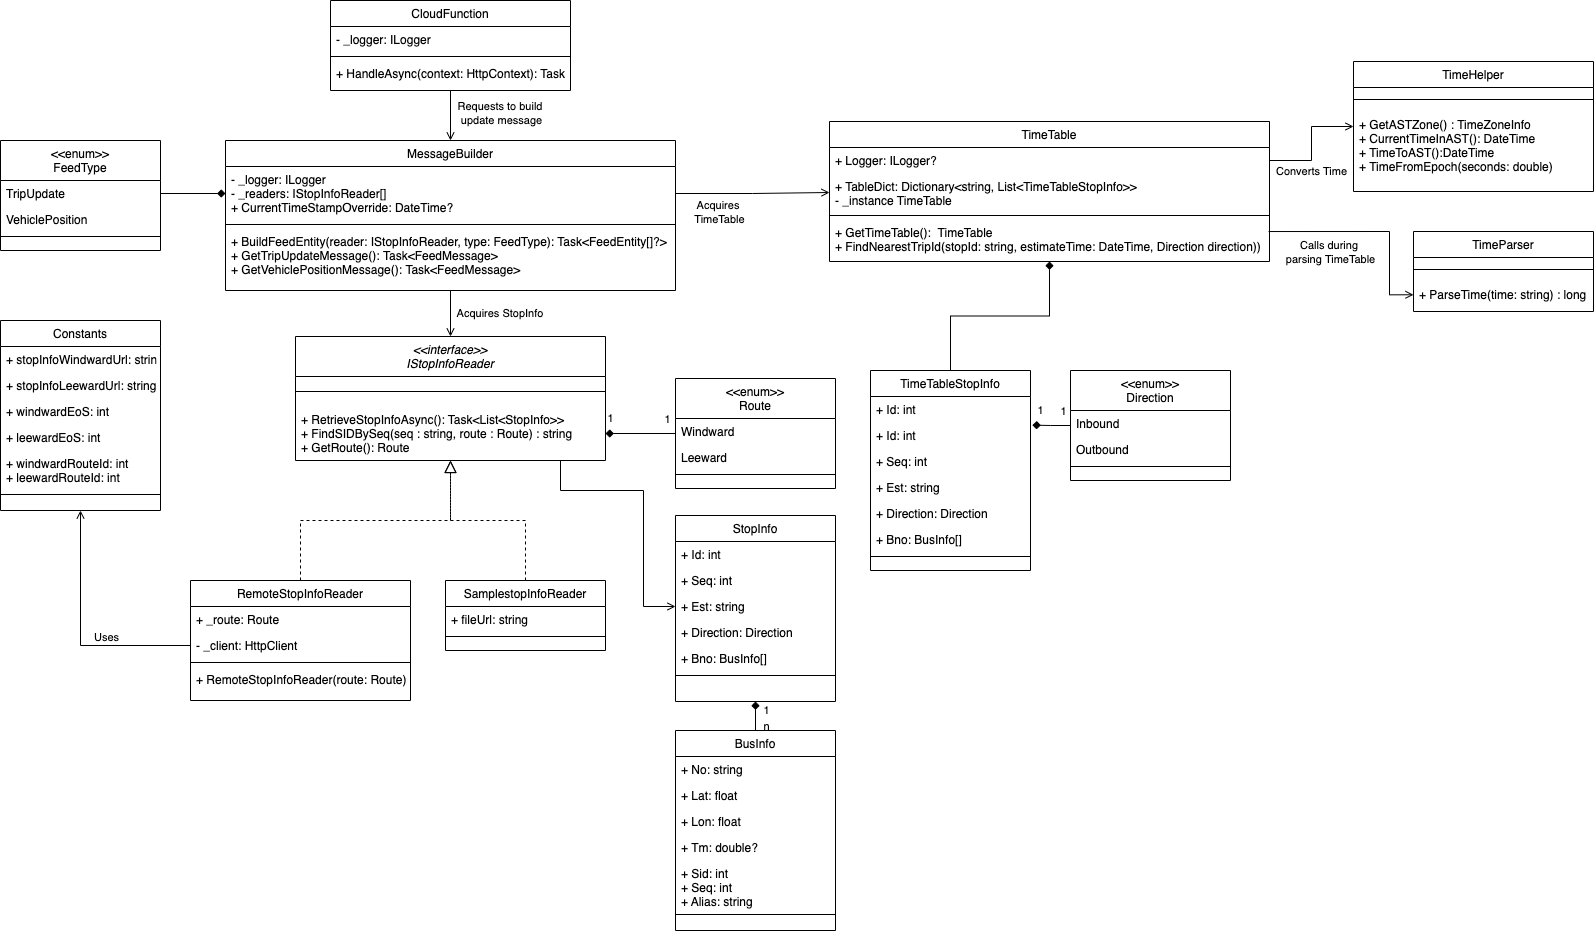
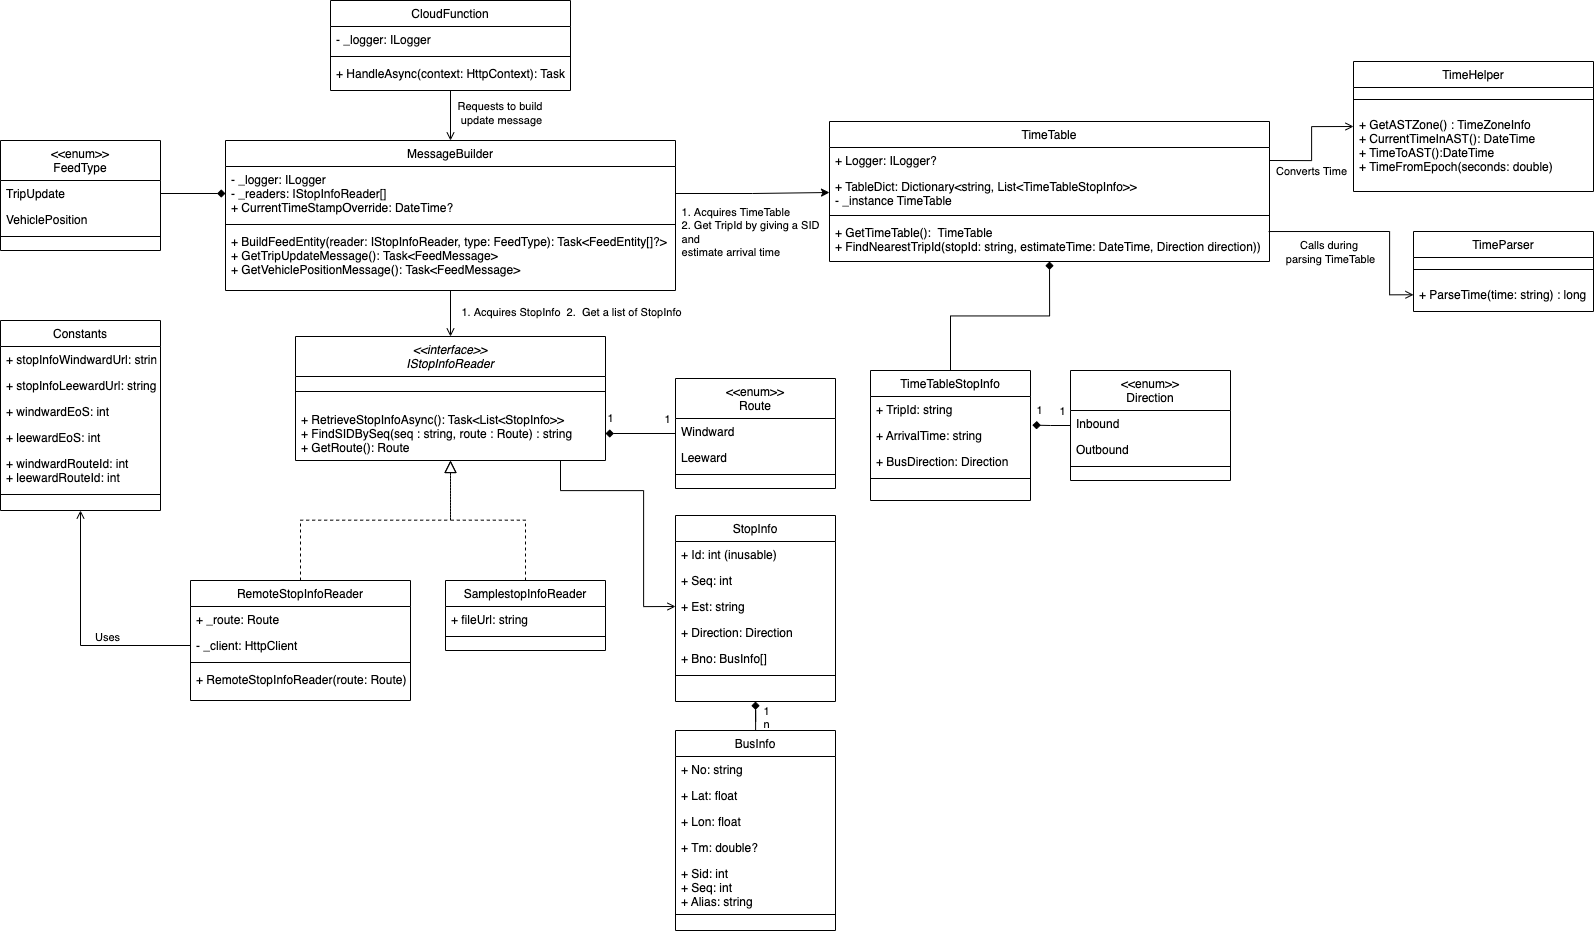
update diagram

diff --git a/TripUpdate/TimeTable/TimeTable.cs b/TripUpdate/TimeTable/TimeTable.cs
@@ -24,15 +24,15 @@ namespace BusTripUpdate
         /// <summary>
         /// Trip ID attached to the bus
         /// </summary>
-        public string tripId;
+        public string TripId;
         /// <summary>
         /// The scheduled arrival time
         /// </summary>
-        public string arrivalTime;
+        public string ArrivalTime;
         /// <summary>
         /// The direction of the bus
         /// </summary>
-        public Direction direction;
+        public Direction BusDirection;
 
     }
 
@@ -112,13 +112,13 @@ namespace BusTripUpdate
 
                 if (timeTable.TableDict.TryGetValue(stopId, out List<TimeTableStopInfo> list))
                 {
-                    list.Add(new TimeTableStopInfo { tripId = tripId, arrivalTime = arrivalTime, direction = direction });
+                    list.Add(new TimeTableStopInfo { TripId = tripId, ArrivalTime = arrivalTime, BusDirection = direction });
                     timeTable.TableDict[stopId] = list;
                 }
                 else
                 {
                     List<TimeTableStopInfo> newList = new();
-                    newList.Add(new TimeTableStopInfo { tripId = tripId, arrivalTime = arrivalTime, direction = direction });
+                    newList.Add(new TimeTableStopInfo { TripId = tripId, ArrivalTime = arrivalTime, BusDirection = direction });
                     timeTable.TableDict[stopId] = newList;
 
                 }
@@ -155,7 +155,7 @@ namespace BusTripUpdate
                 list.ForEach(delegate (TimeTableStopInfo info)
                 {
 
-                    if (direction == info.direction)
+                    if (direction == info.BusDirection)
                     {
                         // convert to AST so Sunday trip can be identified.
                         var astTime = TimeHelper.TimeToAST(estimateTime);
@@ -164,8 +164,8 @@ namespace BusTripUpdate
                         /* Only 2 types of Schedule: Mon-Sat & Sun
                          * The condition enforces which schedule to apply
                          */
-                        if (astTime.DayOfWeek == DayOfWeek.Sunday && info.tripId.Contains("S")
-                            || astTime.DayOfWeek != DayOfWeek.Sunday && !info.tripId.Contains("S"))
+                        if (astTime.DayOfWeek == DayOfWeek.Sunday && info.TripId.Contains("S")
+                            || astTime.DayOfWeek != DayOfWeek.Sunday && !info.TripId.Contains("S"))
                         {
 
                             /* Compare time only (date component is not relevant as every day has the same timetable)
@@ -174,7 +174,7 @@ namespace BusTripUpdate
                             var minute = astTime.Minute.ToString("D2");
                             var second = astTime.Second.ToString("D2");
 
-                            var value = String.Format("{0}-04:00", info.arrivalTime);
+                            var value = String.Format("{0}-04:00", info.ArrivalTime);
                             var estimateValue = String.Format("{0}:{1}:{2}-04:00", hour, minute, second);
 
                             var fixedArrivalTime = DateTime.ParseExact(value, "H:mm:sszzz", provider).ToUniversalTime();
@@ -187,7 +187,7 @@ namespace BusTripUpdate
                             if (difference < min)
                             {
                                 min = difference;
-                                result = info.tripId;
+                                result = info.TripId;
                             }
 
                         }
